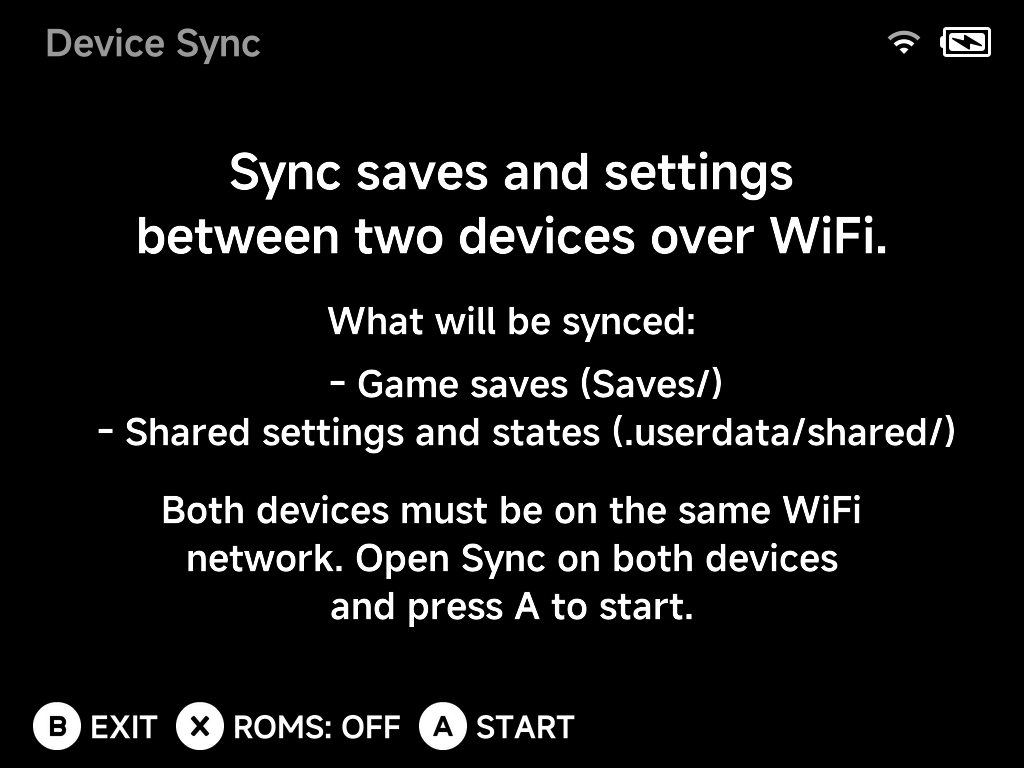
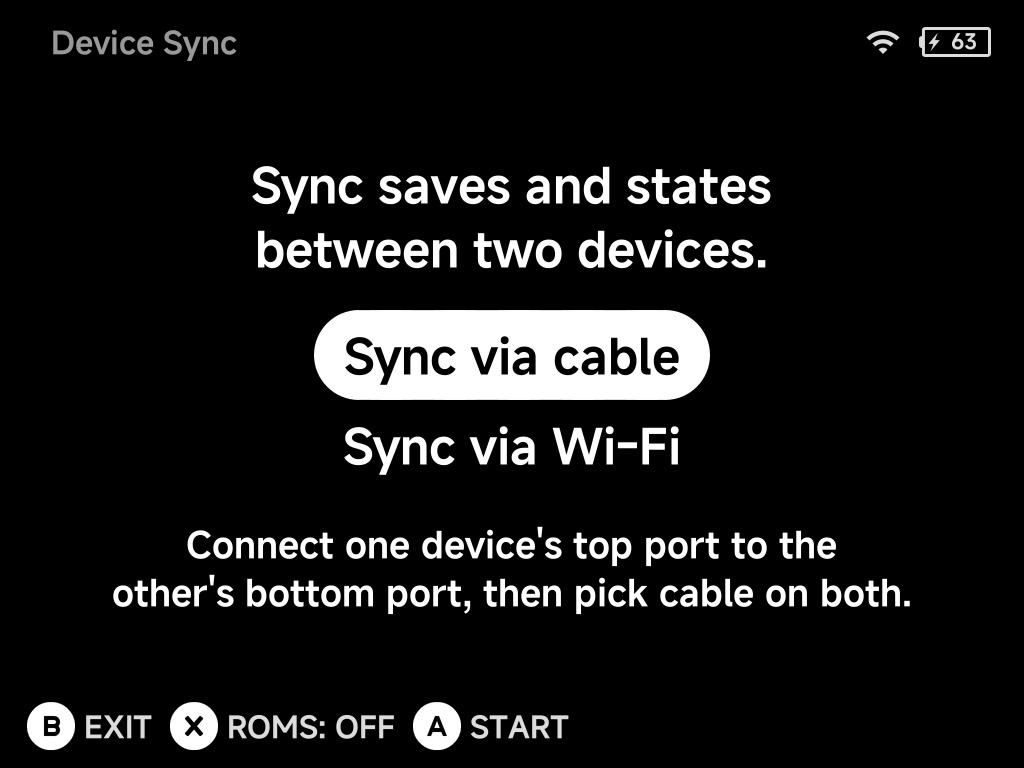
docs(handheld): Device Sync carries saves, states and ROMs, over a USB cable or Wi-Fi; new screenshot (#14)

diff --git a/docs/handheld/apps/device-sync.md b/docs/handheld/apps/device-sync.md
@@ -1,7 +1,8 @@
 # Device Sync
 
-**Tools → Device Sync** moves your data between two NX Redux devices over
-Wi-Fi. It is the supported way to carry your progress to another device.
+**Tools → Device Sync** moves your progress between two NX Redux devices,
+over a USB cable or Wi-Fi. It is the supported way to carry your progress to
+another device.
 
 SD cards are built for one device model, so don't swap them between devices.
 
@@ -10,16 +11,40 @@ SD cards are built for one device model, so don't swap them between devices.
 ## What gets synced
 
 - **Game saves** (`Saves/`)
-- **Shared settings and states** (`.userdata/shared/`)
-- **ROMs** — optional: press `X` to toggle `ROMS: OFF/ON` before starting.
+- **Save states**, with their slot pictures
+- **ROMs** — optional: press `X` to toggle `ROMS: ON/OFF` before starting. The
+  whole `Roms/` folder travels, including artwork (`.media`) and
+  RetroAchievements data (`.retroachievements`).
+
+Everything else stays on each device: settings, recently played, pinned games,
+and your RetroAchievements login (sign in on each device).
 
 ## How to sync
 
-1. Connect both devices to the **same Wi-Fi network**.
+1. Connect the devices with a **USB cable** (one device's top port to the
+   other's bottom port, the same cable as [netplay](../netplay.md)), or put
+   both on the **same Wi-Fi network**.
 2. Open **Tools → Device Sync** on both devices.
-3. Press `A` **Start** on both — the devices find each other and sync.
+3. Pick **Sync via cable** (the default) or **Sync via Wi-Fi** with `UP`/`DOWN`
+   — the same on both devices — and press `A` **Start**. The devices find each
+   other and sync.
 
 !!! note
-    Device Sync needs an active Wi-Fi connection. If Wi-Fi is off or not
-    connected, the tool asks you to turn it on first. The quickest way is the
-    Wi-Fi toggle in the [OSD](../guide/osd.md).
+    Sync via Wi-Fi needs an active Wi-Fi connection. If Wi-Fi is off or not
+    connected, the tool asks you to turn it on or sync via cable instead. The
+    quickest way is the Wi-Fi toggle in the [OSD](../guide/osd.md).
+
+??? info "More detail"
+    - Sync never deletes anything. A file missing on one device is copied
+      over; when both devices have the same file, the newer one replaces the
+      older one.
+    - Both devices send and receive in the same session, so one run brings
+      both up to date.
+    - Save states only work with the emulator core that made them; states for
+      a core the other device doesn't have are copied but unused.
+    - macOS leftovers (`._*` files, `.DS_Store`) are skipped.
+
+!!! warning "Update both devices"
+    A device on an older NX Redux version still sends its settings and recently
+    played list, and can't sync over the cable. Update both for the behaviour
+    above.

diff --git a/docs/handheld/apps/tools.md b/docs/handheld/apps/tools.md
@@ -9,7 +9,7 @@ with `MENU` → **Pin Tool**.
 | Tool | What it does |
 | --- | --- |
 | [Artwork Manager](artwork-manager.md) | Fetch screenshots and box art for your ROMs |
-| [Device Sync](device-sync.md) | Sync saves, states, settings and ROMs across devices |
+| [Device Sync](device-sync.md) | Sync saves, states and ROMs across devices |
 | [Emulator Settings](emulator-settings.md) | Configure each system's emulator options |
 | [Files](files.md) | Dual-pane file manager for the SD card |
 | [Game Tracker](game-tracker.md) | Play-time statistics per game |

diff --git a/docs/reference/faq/handheld.md b/docs/reference/faq/handheld.md
@@ -11,8 +11,8 @@ See the [Mobile FAQ](mobile.md).
 
 No. SD cards are built per device model — resolution, OSD assets and other
 layout differ between models. Use the
-[Device Sync](../../handheld/apps/device-sync.md) tool to carry saves, save states,
-settings and (optionally) ROMs across devices.
+[Device Sync](../../handheld/apps/device-sync.md) tool to carry saves, save states
+and (optionally) ROMs across devices.
 
 ## Something doesn't work after installing
 
